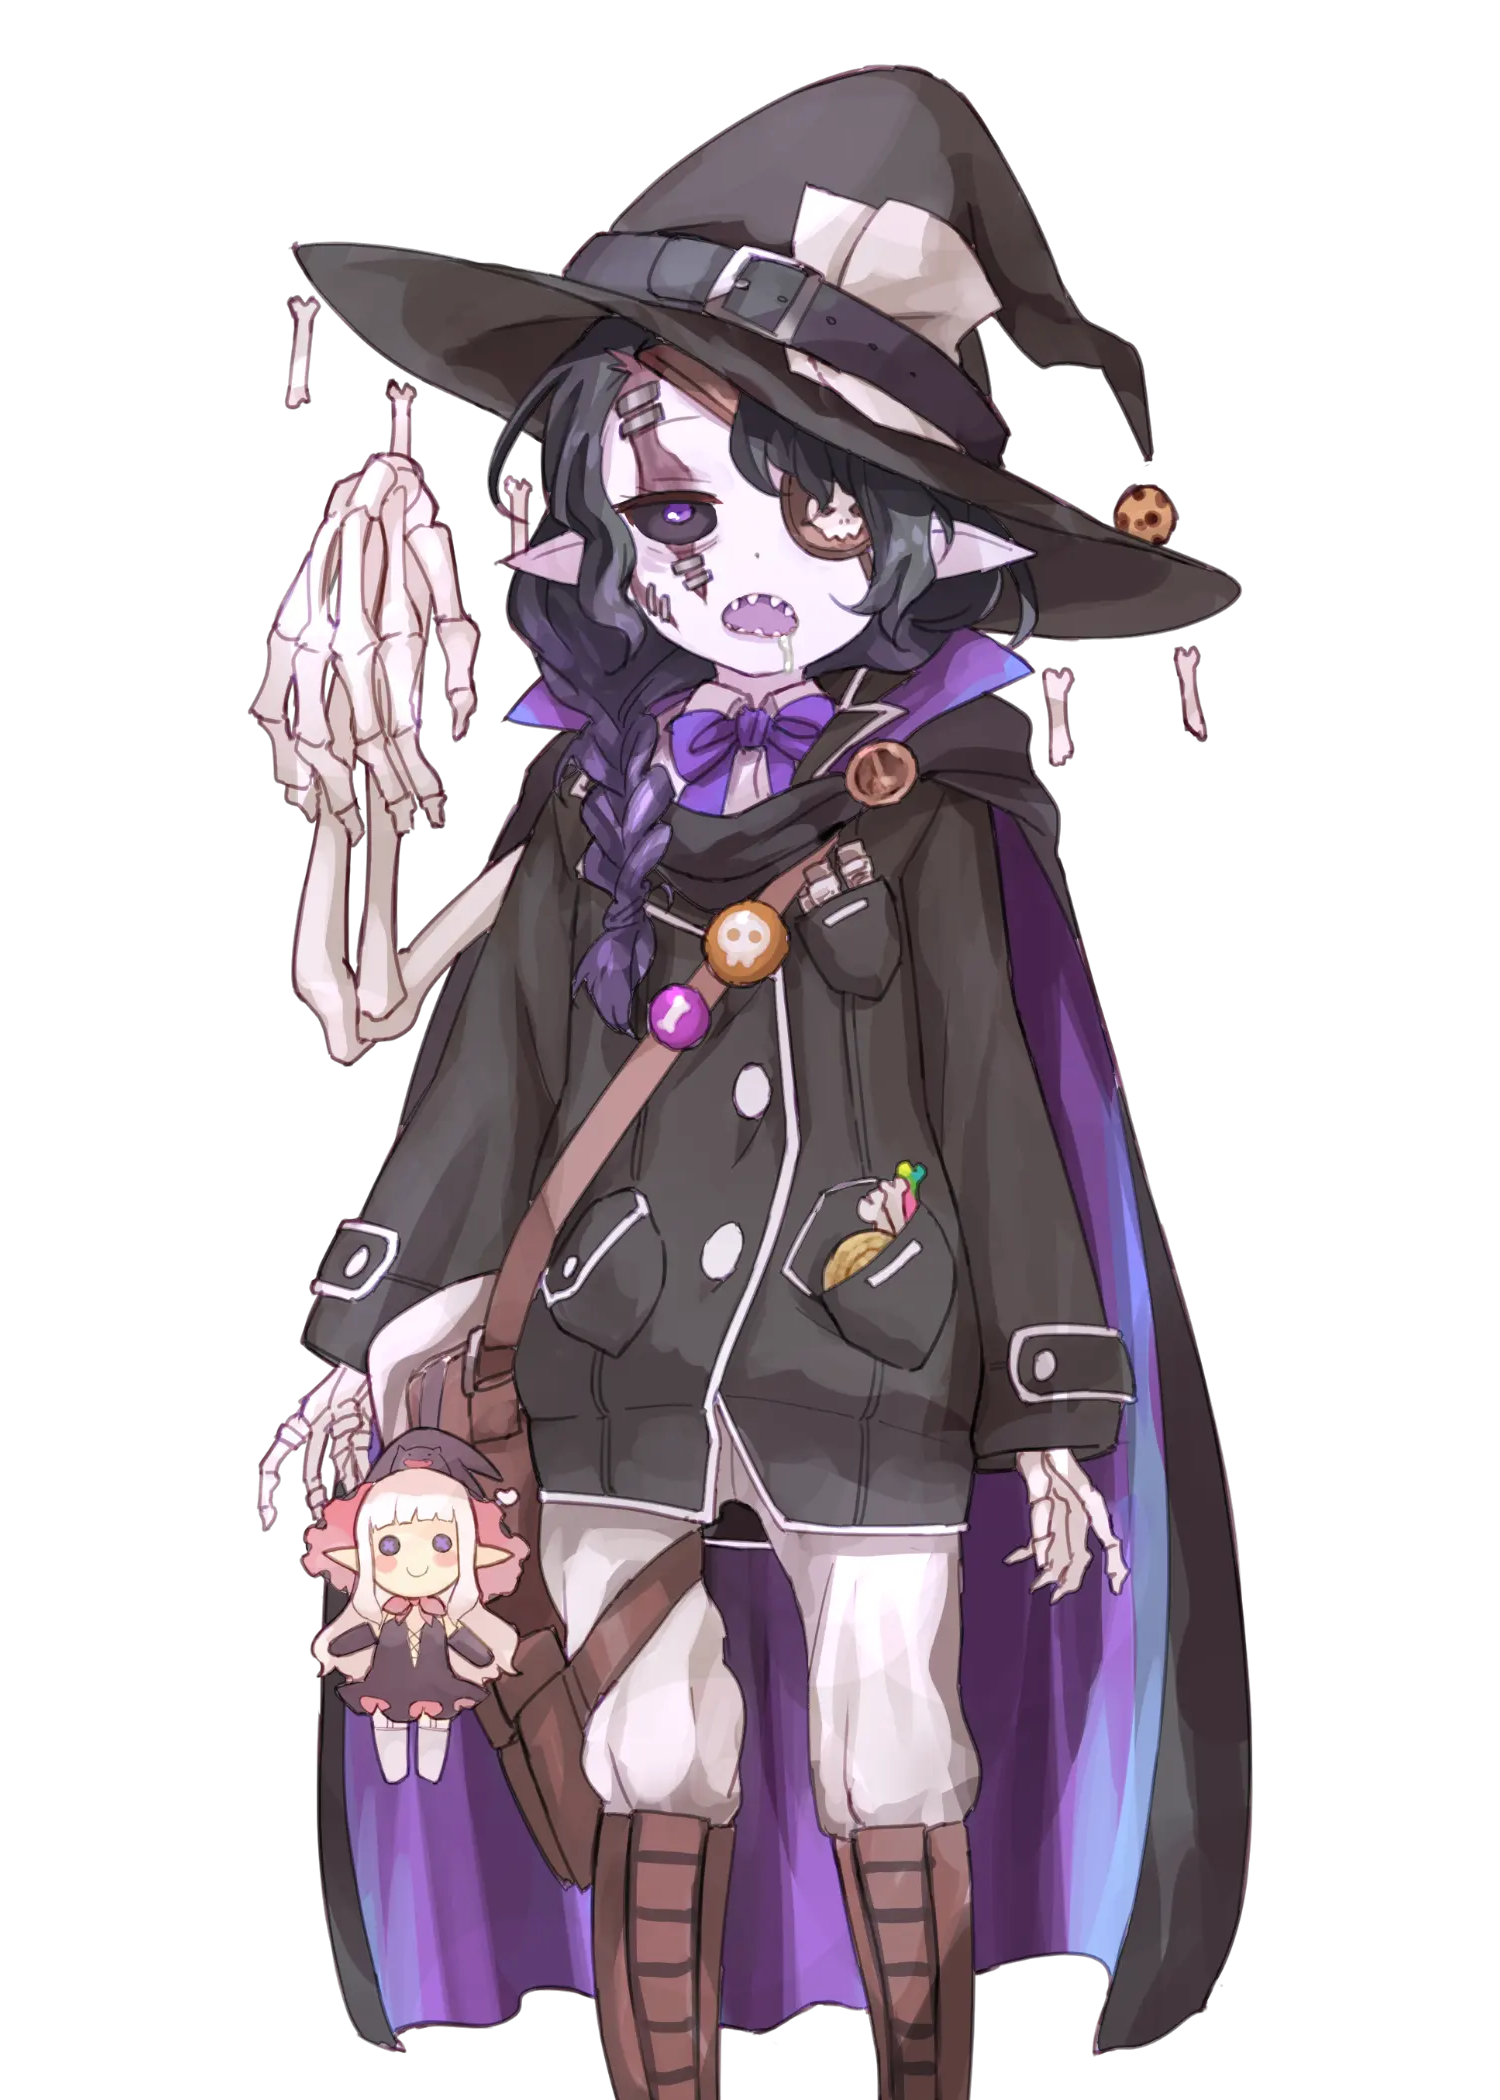
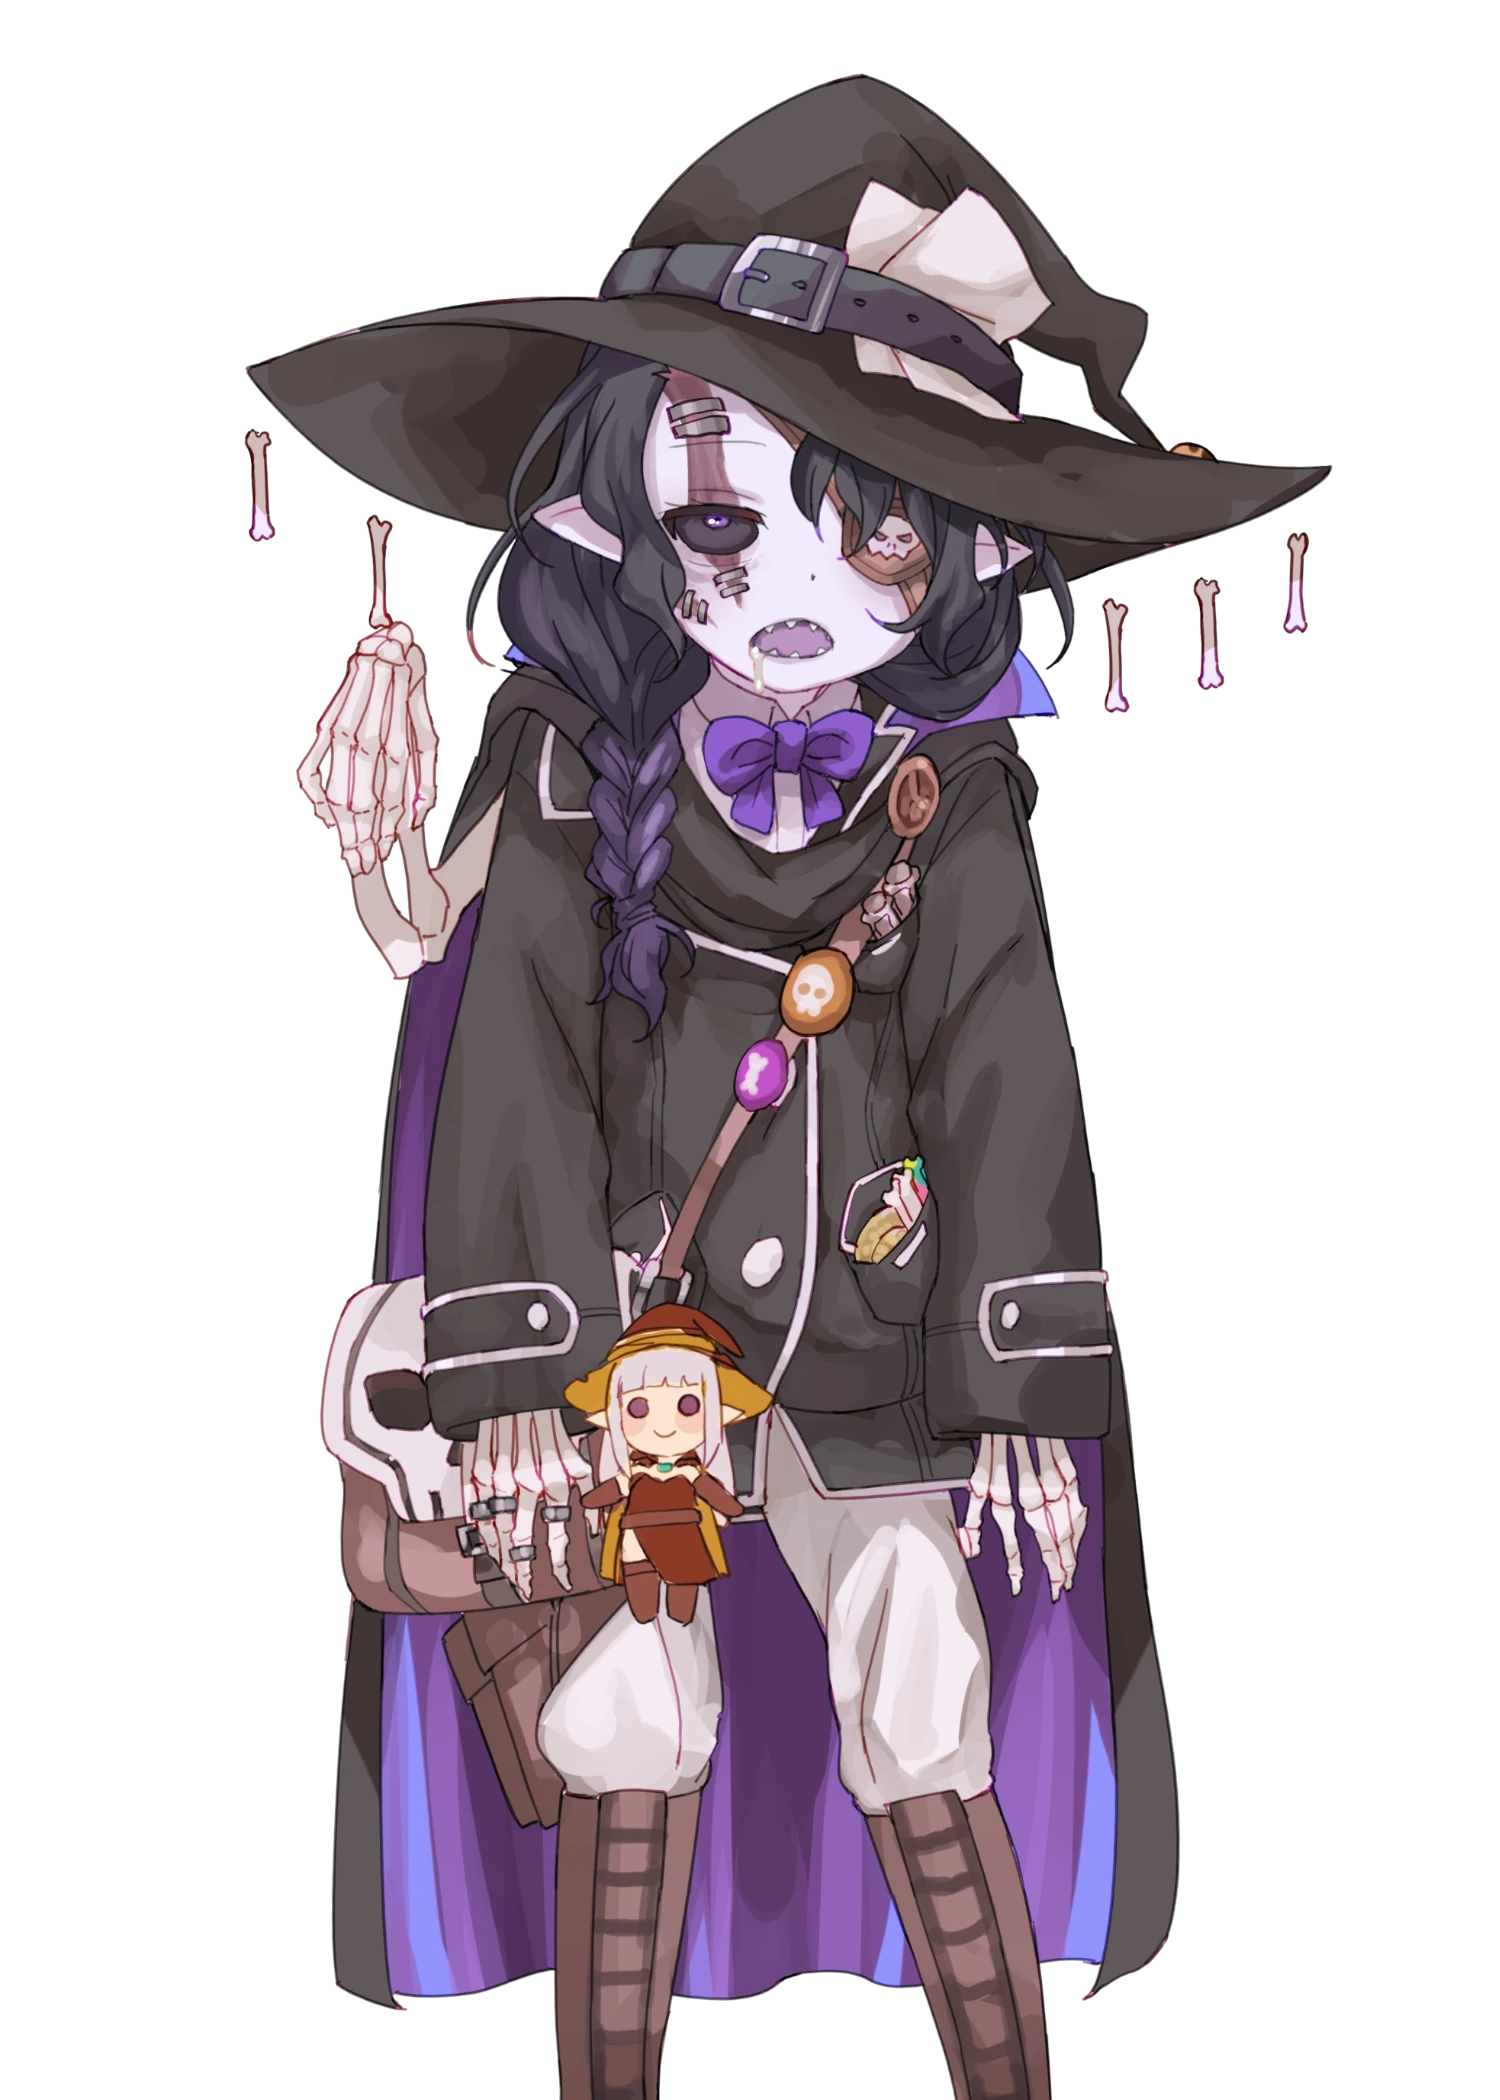
Nuyums update for Ilyana + Main Page

diff --git a/about.html b/about.html
@@ -202,8 +202,14 @@
 				Valkrana wears generously-applied lavender perfume that all but masks her regular smell of formaldehyde.-->
 
 			<!-- Ilyana --><a id="Darling"></a>
-				<h1>The Darling, The Great and Mighty Ilyana Miraquinal</h1><hr class="boyhowdy">
+				<h1>The Darling. The Great, Mighty, Unrivaled Witch Ilyana Miraquinal</h1><hr class="boyhowdy">
 				<h3>Race: Wood Elf, Age: 187, Height: 4'4", Weight: 64lbs</h3>
+				<div class="grid">
+					<div>
+						<img class="grid_img" src="img/nuyums_ilyana_about.png" alt="">
+						<h3 style="text-align: center;">Ilyana art by <a href="https://twitter.com/Nuyums" target="_blank">Nuyums</a>.
+					</div>
+				</div>
 				<p class="noindent">Ilyana Miraquinal was raised in the standard trappings of elven society, though she ended up rather... different. She sees herself as the Great and Mighty Witch Ilyana of the famed Miraquinal household, her mission: to prove the magnificence of her family. This belief brought out a haughty, but not malicious, nature in the elf. Her behavior made her enough of a problem child that her family enlisted the help of a wandering "mind doctor" known for fixing problem children. When he failed, Ilyana's grandiose ideas became further entrenched. The great witch had resisted.
 				<p>For a time, Ilyana strove to hone her rare psionic talents, which she eventually paired to great effect with wizardry. Until, finally and eagerly, her parents sent her out into the world under the guise of getting actual experience. More likely, they just wanted to be rid of her.
 				<p>Some kind-hearted souls in the community scrounged together enough money to buy for her a run-down hovel in the depths of the elven caverns. With her hovel as a base, Ilyana set out on her adventure to spread the glory of Miraquinal. Early on, she went out of her way to help others, expecting only gratitude in return. Money means little to her; she'd rather hear words of praise. However, the harshness of the world eventually got through to her. While a smile meant more to her than any coin, she realized that in order to survive, and eventually flourish, she would need money. Thus she lived for many years, getting by and adventuring by her lonesome. Until...
